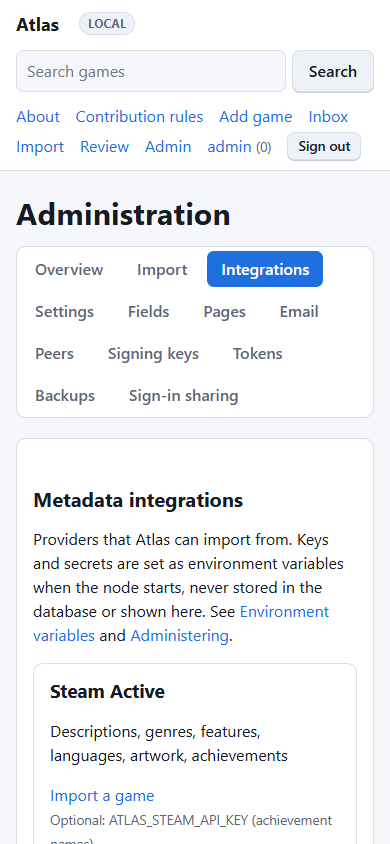
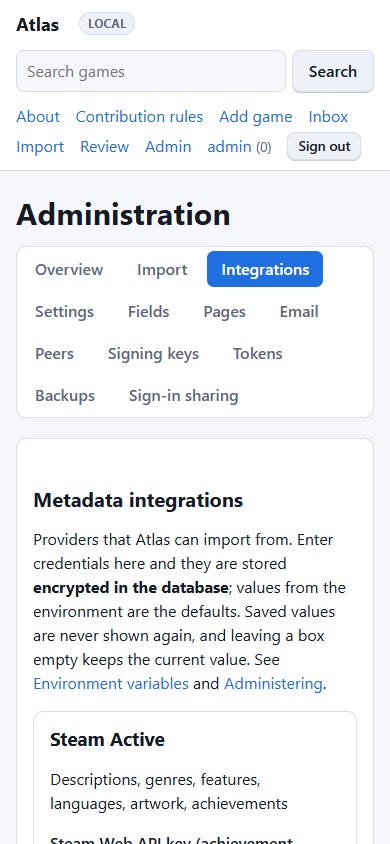
feat: edit provider credentials from Admin → Integrations; store links
Admin can store IGDB/RAWG/Steam credentials encrypted in the database (needs
ATLAS_SECRET_KEY), overriding the environment, with the providers rebuilt live and
only field names audited. Steam's public API can be toggled. Known stores (Steam, GOG,
Epic, TheGamesDB, itch, IGDB, RAWG) get store-page links on game pages and hints
in the add-game form. Reference docs updated.

Refs #32

Changed region(s): [[0.0615, 0.6161, 0.8923, 0.8318], [0.1231, 0.8626, 0.8615, 1.0]]

diff --git a/atlas/web/templates/admin_integrations.html b/atlas/web/templates/admin_integrations.html
@@ -1,16 +1,32 @@
 {% extends "base.html" %}
+{% from "macros.html" import csrf %}
 {% block title %}Integrations · {{ app_name }}{% endblock %}
 {% block content %}
 <h1>Administration</h1>
 {% include "_adminnav.html" %}
 <section class="card"><h2>Metadata integrations</h2>
-<p>Providers that Atlas can import from. Keys and secrets are set as environment variables when the node starts, never stored in the database or shown here. See <a href="{{ docs }}/reference-env.md" rel="noopener">Environment variables</a> and <a href="{{ docs }}/administering.md" rel="noopener">Administering</a>.</p>
+<p>Providers that Atlas can import from. Enter credentials here and they are stored <strong>encrypted in the database</strong>; values from the environment are the defaults. Saved values are never shown again, and leaving a box empty keeps the current value. See <a href="{{ docs }}/reference-env.md" rel="noopener">Environment variables</a> and <a href="{{ docs }}/administering.md" rel="noopener">Administering</a>.</p>
+{% if not can_store %}<p class="notice" role="note">Storing credentials here needs <code>ATLAS_SECRET_KEY</code> (generate one with <code>atlas secret-key</code>) so they can be encrypted. Until then use the environment variables shown for each provider.</p>{% endif %}
 {% for r in rows %}
 <article class="card"><h3>{{ r.label }} {% if r.active %}<span class="tag">Active</span>{% elif r.available %}<span class="tag">Not configured</span>{% else %}<span class="tag">No adapter yet</span>{% endif %}</h3>
 <p>{{ r.gives }}{% if r.failures %} <span class="muted">· {{ r.failures }} recent failure{{ '' if r.failures == 1 else 's' }}</span>{% endif %}</p>
-<p>{% if r.active %}<a href="/import?provider={{ r.name }}">Import a game</a>
-{% elif r.available %}To enable: set {% for v in r.needs %}<code>{{ v }}</code>{{ ' and ' if not loop.last }}{% endfor %} and restart Atlas.
-{% else %}Link its ids on a game page, or have a plugin submit them.{% endif %}
-{% if r.optional %}<br><span class="small muted">Optional: {{ r.optional|join(', ') }}</span>{% endif %}</p></article>{% endfor %}
-</section>
+{% if r.editable %}
+<form method="post" action="/admin/integrations/{{ r.name }}">{{ csrf(p.csrf) }}
+{% for f in r.fields %}
+<label for="{{ r.name }}-{{ f.key }}">{{ f.label }} <span class="hint">{{ f.state }}</span></label>
+<input id="{{ r.name }}-{{ f.key }}" name="{{ f.key }}" type="password" autocomplete="off" maxlength="300" placeholder="{{ 'Enter a new value to replace it' if (f.stored or f.env) else 'Not set' }}"{{ ' disabled' if not can_store }}>
+{% if f.stored %}<label><input type="checkbox" name="clear_{{ f.key }}"> Remove the stored value (falls back to the environment)</label>{% endif %}
+{% endfor %}
+{% if r.name == 'steam' %}<label><input type="checkbox" name="steam_enabled"{{ ' checked' if steam_on }}> Use Steam's public store API</label>{% endif %}
+<p><button type="submit">Save {{ r.label }}</button>{% if r.active %} <a class="btn secondary" href="/import?provider={{ r.name }}">Import a game</a>{% endif %}</p>
+<p class="small muted">Environment: {% for v in r.needs %}<code>{{ v }}</code>{{ ', ' if not loop.last }}{% endfor %}{% if r.optional %}; optional {{ r.optional|join(', ') }}{% endif %}</p>
+</form>
+{% else %}
+<p>Link its ids on a game page or have a plugin submit them.</p>
+{% endif %}
+</article>{% endfor %}</section>
+<section class="card"><h2>Linking stores</h2>
+<p>Store ids are linked to a game as <code>namespace:id</code> (for example when adding a game, or by a plugin). These namespaces get a link to the store page on the game page:</p>
+<ul>{% for ns, s in stores.items() %}<li><code>{{ ns }}</code> · {{ s[0] }}{% if not s[1] %} <span class="muted">(id only, no public link)</span>{% endif %}</li>{% endfor %}</ul>
+<p class="small muted">GOG, Epic and TheGamesDB have no import adapter yet: their ids are stored and shown, but Atlas does not fetch data from them.</p></section>
 {% endblock %}

diff --git a/atlas/web/templates/game.html b/atlas/web/templates/game.html
@@ -26,7 +26,7 @@
       {% if v.get('aliases') %}<dt>{{ lbl.aliases }}</dt><dd>{{ v.aliases|join(', ') }}</dd>{% endif %}
       {% for d in details %}<dt>{{ d.f.label }}</dt><dd>{% if d.f.kind == 'list' %}{{ chips(d.value) }}{% elif d.f.kind == 'url' %}<a href="{{ d.value }}" rel="noopener noreferrer nofollow">{{ d.value }}</a>{% elif d.f.kind == 'bool' %}{{ 'Yes' if d.value else 'No' }}{% else %}{{ d.value }}{% endif %}</dd>{% endfor %}
       {% if mtype_label and g.media_type != 'game' %}<dt>Type</dt><dd>{{ mtype_label }}</dd>{% endif %}
-      <dt>Identifiers</dt><dd><code>{{ g.id }}</code>{% for ns, ident in (v.get('provider_ids') or {}).items() %}<br>{{ ns }}: {% if ns == 'steam' and ident.isdigit() %}<a href="https://store.steampowered.com/app/{{ ident }}" rel="noopener noreferrer nofollow">{{ ident }}</a>{% else %}{{ ident }}{% endif %}{% endfor %}</dd>
+      <dt>Identifiers</dt><dd><code>{{ g.id }}</code>{% for ns, ident in (v.get('provider_ids') or {}).items() %}<br>{{ store_name(ns) }}: {% set link = store_link(ns, ident) %}{% if link %}<a href="{{ link }}" rel="noopener noreferrer nofollow">{{ ident }}</a>{% else %}{{ ident }}{% endif %}{% endfor %}</dd>
     </dl>
     {% if v.get('description') %}<p>{{ v.description }}</p>{% endif %}
     <div class="actions-bar">

diff --git a/atlas/web/templates/edit.html b/atlas/web/templates/edit.html
@@ -9,7 +9,7 @@
   {{ csrf(p.csrf) }}{% if new %}<input type="hidden" name="media_type" value="{{ mtype }}">{% endif %}
   {% include "_fields.html" %}
   {% if new %}
-  <label for="provider_ids">Known store IDs <span class="hint">one per line, e.g. <code>steam:620</code></span></label>
+  <label for="provider_ids">Known store IDs <span class="hint">one per line, e.g. <code>steam:620</code>, <code>gog:the_witcher_3</code>, <code>epic:slug</code>, <code>tgdb:1234</code></span></label>
   <textarea id="provider_ids" name="provider_ids">{{ ids_text|default('') }}</textarea>
   {% endif %}
   <label for="note">Source / note for reviewers <span class="hint">link to the store page or announcement</span></label>

diff --git a/atlas/web/admin.py b/atlas/web/admin.py
@@ -9,7 +9,7 @@ from fastapi import APIRouter, Depends, File, Form, HTTPException, Request, Resp
 from fastapi.responses import HTMLResponse
 from sqlalchemy import select
 
-from .. import media, pages, runtime
+from .. import integrations, media, pages, runtime, secrets_box
 from ..models import AuditEntry, Page, Setting
 from .deps import Page as Ctx
 from .deps import admin_form, admin_page, go, page
@@ -197,10 +197,68 @@ CATALOGUE = (
 )
 
 
+def _field_state(p: Ctx, field: str) -> dict[str, Any]:
+    stored = p.session.get(Setting, integrations.PREFIX + field) is not None
+    in_env = bool(getattr(p.st.base, field, None))
+    return {"stored": stored, "env": in_env,
+            "state": "Stored in the database" if stored else ("Set in the environment" if in_env else "Not set")}
+
+
 @router.get("/admin/integrations", response_class=HTMLResponse)
-def integrations(p: Annotated[Ctx, Depends(admin_page)]):
+def integrations_page(p: Annotated[Ctx, Depends(admin_page)]):
     active = p.st.providers.providers
     failures = p.st.providers.failure_counts()
-    rows = [{**item, "active": item["name"] in active, "available": bool(item["needs"]),
-             "failures": failures.get(item["name"], 0)} for item in CATALOGUE]
-    return render(p, "admin_integrations.html", rows=rows, docs=DOCS)
+    rows = []
+    for item in CATALOGUE:
+        spec = integrations.PROVIDERS.get(item["name"])
+        fields = [{"key": f, "label": label, **_field_state(p, f)} for f, label in (spec[1] if spec else ())]
+        rows.append({**item, "active": item["name"] in active, "available": bool(item["needs"]), "fields": fields,
+                     "failures": failures.get(item["name"], 0), "editable": spec is not None})
+    return render(p, "admin_integrations.html", rows=rows, docs=DOCS, can_store=secrets_box.available(p.st.base),
+                  stores=integrations.STORES,
+                  steam_on=p.st.ctx.settings.steam_enabled)
+
+
+@router.post("/admin/integrations/{name}")
+async def integrations_save(name: str, request: Request, p: Annotated[Ctx, Depends(admin_form)]):
+    spec = integrations.PROVIDERS.get(name)
+    if spec is None:
+        raise HTTPException(404, "Unknown provider.")
+    form = await request.form()
+    changed: list[str] = []
+    for field, _label in spec[1]:
+        key = integrations.PREFIX + field
+        value = str(form.get(field, "")).strip()
+        row = p.session.get(Setting, key)
+        if form.get("clear_" + field) == "on":
+            if row is not None:
+                p.session.delete(row)
+                changed.append(field)
+            continue
+        if not value:
+            continue
+        if len(value) > 300 or any(ord(c) < 32 for c in value):
+            raise HTTPException(400, "Credentials are at most 300 characters, on one line.")
+        if not secrets_box.available(p.st.base):
+            raise HTTPException(400, "Set ATLAS_SECRET_KEY (see `atlas secret-key`) before storing credentials here.")
+        token = secrets_box.encrypt(p.st.base, value)
+        if row is None:
+            p.session.add(Setting(key=key, value=token, updated_by=p.me.id))
+        else:
+            row.value, row.updated_by = token, p.me.id
+        changed.append(field)
+    if name == "steam":
+        key = integrations.PREFIX + "steam_enabled"
+        wanted = form.get("steam_enabled") == "on"
+        row = p.session.get(Setting, key)
+        if (row.value if row is not None else p.st.base.steam_enabled) != wanted:
+            if row is None:
+                p.session.add(Setting(key=key, value=wanted, updated_by=p.me.id))
+            else:
+                row.value, row.updated_by = wanted, p.me.id
+            changed.append("steam_enabled")
+    if changed:  # field names only, never values
+        p.session.add(AuditEntry(actor_id=p.me.id, action="integration", target=name, detail={"fields": changed}))
+    p.session.flush()
+    p.st.refresh(p.session, force=True)
+    return go("/admin/integrations", "saved" if changed else "nochange")

diff --git a/tests/test_web.py b/tests/test_web.py
@@ -398,6 +398,54 @@ def test_admin_integrations_page_shows_provider_status_without_secrets(site):
     page = site.get("/admin/integrations")
     assert page.status_code == 200
     assert "Steam" in page.text and "Active" in page.text and "Not configured" in page.text
-    assert "ATLAS_IGDB_CLIENT_ID" in page.text and "Not configured" in page.text
-    assert "ATLAS_RAWG_API_KEY" in page.text and "GOG" in page.text
+    assert "ATLAS_IGDB_CLIENT_ID" in page.text and "ATLAS_RAWG_API_KEY" in page.text and "GOG" in page.text
     assert 'href="/admin/integrations"' in page.text
+    assert "ATLAS_SECRET_KEY" in page.text  # no key configured: the page says why it cannot store credentials
+
+
+def test_admin_can_store_provider_credentials_encrypted_and_providers_reload(site):
+    from sqlalchemy import select
+
+    from atlas import integrations, secrets_box
+    from atlas.models import AuditEntry, Setting
+
+    base = site.st.base.model_copy(update={"secret_key": "k" * 40})
+    site.st.base = base
+    signup(site, "alice")
+    assert "igdb" not in site.st.providers.providers
+    t = token(site, "/admin/integrations")
+    r = site.post("/admin/integrations/igdb", data={"csrf": t, "igdb_client_id": "client-123",
+                                                    "igdb_client_secret": "super-secret-value"})
+    assert r.status_code == 303, r.text
+    with site.st.maker() as s:
+        raw = s.get(Setting, integrations.PREFIX + "igdb_client_secret").value
+        assert "super-secret-value" not in raw and secrets_box.decrypt(base, raw) == "super-secret-value"
+        audit = s.scalars(select(AuditEntry).where(AuditEntry.action == "integration")).one()
+        assert audit.detail == {"fields": ["igdb_client_id", "igdb_client_secret"]}
+    page = site.get("/admin/integrations")  # refresh picks up the change and rebuilds the providers
+    assert "super-secret-value" not in page.text and "client-123" not in page.text
+    assert "Stored in the database" in page.text and "igdb" in site.st.providers.providers
+    # an empty box keeps the value; the checkbox removes it and the provider goes away
+    site.post("/admin/integrations/igdb", data={"csrf": t, "igdb_client_id": "", "igdb_client_secret": ""})
+    assert "igdb" in site.st.providers.providers
+    site.post("/admin/integrations/igdb", data={"csrf": t, "clear_igdb_client_id": "on", "clear_igdb_client_secret": "on"})
+    site.get("/admin/integrations")
+    assert "igdb" not in site.st.providers.providers
+
+
+def test_credentials_cannot_be_stored_without_a_secret_key_or_by_non_admins(site):
+    signup(site, "alice")
+    t = token(site, "/admin/integrations")
+    assert site.post("/admin/integrations/rawg", data={"csrf": t, "rawg_api_key": "abc"}).status_code == 400
+    assert site.post("/admin/integrations/nope", data={"csrf": t}).status_code == 404
+    plain = fresh(site)
+    assert plain.post("/admin/integrations/rawg", data={"csrf": "x", "rawg_api_key": "abc"}).status_code in (303, 401, 403)
+
+
+def test_known_stores_link_only_safe_ids():
+    from atlas import integrations
+
+    assert integrations.store_link("gog", "the_witcher_3") == "https://www.gog.com/game/the_witcher_3"
+    assert integrations.store_link("tgdb", "1234") == "https://thegamesdb.net/game.php?id=1234"
+    assert integrations.store_link("steam", "../evil") is None and integrations.store_link("itch", "x") is None
+    assert integrations.store_link("unknown", "1") is None and integrations.store_name("unknown") == "unknown"

diff --git a/tools/gen_docs.py b/tools/gen_docs.py
@@ -30,7 +30,7 @@ ENV_HELP: dict[str, tuple[str, str]] = {
                     "PostgreSQL for authorities and an explicit initial administrator."),
     "auto_migrate": ("Node", "Run database migrations on start. Default: on for SQLite, off otherwise. With several replicas "
                      "set `false` and run `atlas migrate` as a job."),
-    "secret_key": ("Node", "Encrypts secrets stored in the database (peer tokens, OIDC client secrets). Generate one with "
+    "secret_key": ("Node", "Encrypts secrets stored in the database (peer tokens, OIDC client secrets, provider credentials entered in Admin → Integrations). Generate one with "
                    "`atlas secret-key`. Losing it makes those secrets unreadable."),
     "bootstrap_admin_token": ("Node", "32+ random characters. Becomes an admin API token while set; removing it revokes it. "
                               "Use it to create the first real tokens."),
@@ -59,11 +59,11 @@ ENV_HELP: dict[str, tuple[str, str]] = {
     "max_resolve": ("Limits", "Largest `/resolve` batch."),
     "rate_limit_per_minute": ("Limits", "API requests per token per minute (unauthenticated callers get 60 per address)."),
     "max_body_bytes": ("Limits", "Largest request body accepted."),
-    "steam_enabled": ("Providers", "Use Steam's public store API."),
-    "rawg_api_key": ("Providers", "Enables the RAWG provider."),
-    "igdb_client_id": ("Providers", "Twitch client id; with the secret enables the IGDB provider."),
-    "igdb_client_secret": ("Providers", "Twitch client secret for IGDB."),
-    "steam_api_key": ("Providers", "Steam Web API key. Without it achievements have global percentages only (no names)."),
+    "steam_enabled": ("Providers", "Use Steam's public store API. Can also be switched in [Admin → Integrations](administering.md#integrations)."),
+    "rawg_api_key": ("Providers", "Enables the RAWG provider. Can also be set in [Admin → Integrations](administering.md#integrations) (stored encrypted; needs `ATLAS_SECRET_KEY`), which overrides this value."),
+    "igdb_client_id": ("Providers", "Twitch client id; with the secret enables the IGDB provider. Can also be set in [Admin → Integrations](administering.md#integrations) (stored encrypted; needs `ATLAS_SECRET_KEY`), which overrides this value."),
+    "igdb_client_secret": ("Providers", "Twitch client secret for IGDB. Can also be set in [Admin → Integrations](administering.md#integrations) (stored encrypted; needs `ATLAS_SECRET_KEY`), which overrides this value."),
+    "steam_api_key": ("Providers", "Steam Web API key. Without it achievements have global percentages only (no names). Can also be set in [Admin → Integrations](administering.md#integrations) (stored encrypted; needs `ATLAS_SECRET_KEY`), which overrides this value."),
     "provider_ttl_seconds": ("Providers", "How long a provider answer is cached."),
     "provider_negative_ttl_seconds": ("Providers", "How long “not found” is cached."),
     "media_dir": ("Artwork", "Directory for cached images (content-addressed). Mount a volume here."),

diff --git a/atlas/integrations.py b/atlas/integrations.py
@@ -1,0 +1,65 @@
+"""Provider credentials and store links.
+
+Credentials come from the environment, and an administrator can override them in Admin -> Integrations. Overrides
+are encrypted with ATLAS_SECRET_KEY in the `setting` table (keys `integration.<field>`); the key itself is never
+stored in the database.
+"""
+
+from __future__ import annotations
+
+import re
+from typing import Any
+
+from . import secrets_box
+from .settings import Settings
+
+PREFIX = "integration."
+
+# provider -> (label, secret fields as (setting field, label))
+PROVIDERS: dict[str, tuple[str, tuple[tuple[str, str], ...]]] = {
+    "steam": ("Steam", (("steam_api_key", "Steam Web API key (achievement names)"),)),
+    "igdb": ("IGDB", (("igdb_client_id", "Twitch client ID"), ("igdb_client_secret", "Twitch client secret"))),
+    "rawg": ("RAWG", (("rawg_api_key", "RAWG API key"),)),
+}
+SECRET_FIELDS = tuple(field for _label, fields in PROVIDERS.values() for field, _ in fields)
+TOGGLES = ("steam_enabled",)
+
+# Known stores for linking ids: namespace -> (name, url template or None)
+STORES: dict[str, tuple[str, str | None]] = {
+    "steam": ("Steam", "https://store.steampowered.com/app/{id}"),
+    "gog": ("GOG", "https://www.gog.com/game/{id}"),
+    "epic": ("Epic Games Store", "https://store.epicgames.com/p/{id}"),
+    "tgdb": ("TheGamesDB", "https://thegamesdb.net/game.php?id={id}"),
+    "itch": ("itch.io", None),
+    "igdb": ("IGDB", None),
+    "rawg": ("RAWG", "https://rawg.io/games/{id}"),
+}
+_SAFE_ID = re.compile(r"^[A-Za-z0-9._-]{1,100}$")
+
+
+def store_link(namespace: str, ident: str) -> str | None:
+    """A public store page for a linked id, only for known stores and plainly safe ids."""
+    store = STORES.get(namespace)
+    if store is None or store[1] is None or not _SAFE_ID.match(str(ident)):
+        return None
+    return store[1].format(id=ident)
+
+
+def store_name(namespace: str) -> str:
+    return STORES[namespace][0] if namespace in STORES else namespace
+
+
+def apply(settings: Settings, overrides: dict[str, Any]) -> Settings:
+    """Settings with database credential overrides applied; anything undecryptable is ignored."""
+    update: dict[str, Any] = {}
+    for field in SECRET_FIELDS:
+        raw = overrides.get(PREFIX + field)
+        if isinstance(raw, str) and raw and secrets_box.available(settings):
+            try:
+                update[field] = secrets_box.decrypt(settings, raw)
+            except secrets_box.SecretsError:
+                continue
+    for field in TOGGLES:
+        if isinstance(overrides.get(PREFIX + field), bool):
+            update[field] = overrides[PREFIX + field]
+    return settings.model_copy(update=update) if update else settings

diff --git a/atlas/runtime.py b/atlas/runtime.py
@@ -13,6 +13,7 @@ from typing import Any
 from sqlalchemy import select
 from sqlalchemy.orm import Session
 
+from . import integrations
 from .models import AuditEntry, Setting, now
 from .settings import Settings
 
@@ -191,9 +192,9 @@ def effective(base: Settings, overrides: dict[str, Any]) -> Settings:
     """The environment settings with the admin's overrides applied (invalid leftovers are ignored)."""
     update = {k: to_attr(BY_KEY[k], v) if k in BY_KEY else v for k, v in overrides.items()
               if k in BY_KEY or k in EXTRA}
-    if not update:
+    merged = integrations.apply(base.model_copy(update=update) if update else base, overrides)
+    if merged is base:
         return base
-    merged = base.model_copy(update=update)
     try:
         return _check(merged)
     except ValueError:

diff --git a/atlas/providers/registry.py b/atlas/providers/registry.py
@@ -64,6 +64,12 @@ class Fetcher:
         self._clock = clock
         self._failure_counts: dict[str, int] = {}
 
+    def rebuild(self, settings: Settings) -> None:
+        """Re-create the built-in providers from changed credentials; custom or replaced providers are kept."""
+        built_in = (Steam, Rawg, Igdb)
+        kept = {name: p for name, p in self.providers.items() if not isinstance(p, built_in)}
+        self.providers = {**build_registry(settings), **kept}
+
     def failure_counts(self) -> dict[str, int]:
         with self._lock:
             return dict(self._failure_counts)

diff --git a/atlas/web/__init__.py b/atlas/web/__init__.py
@@ -6,8 +6,11 @@ from pathlib import Path
 
 from fastapi.templating import Jinja2Templates
 
+from .. import integrations
+
 HERE = Path(__file__).parent
 templates = Jinja2Templates(directory=str(HERE / "templates"))
+templates.env.globals.update(store_link=integrations.store_link, store_name=integrations.store_name)
 STATIC_DIR = HERE / "static"
 
 CSP = ("default-src 'none'; img-src 'self'; style-src 'self'; script-src 'self'; form-action 'self'; "

diff --git a/atlas/api/deps.py b/atlas/api/deps.py
@@ -35,6 +35,7 @@ class AppState:
             fresh = runtime.effective(self.base, runtime.load(session))
             self.ctx.settings = fresh
             self.providers.settings = fresh
+            self.providers.rebuild(fresh)
 
 
 def state(request: Request) -> AppState:

diff --git a/docs/guide/reference-env.md b/docs/guide/reference-env.md
@@ -16,7 +16,7 @@ Every setting is read from an environment variable named `ATLAS_<NAME>` (or from
 | `ATLAS_NODE_OPERATOR` | — | Who runs this node. Editable in Admin → Settings. **live** |
 | `ATLAS_INITIAL_ADMIN` | — | Username that becomes the website administrator when it registers. If unset, the first account to register is the administrator (production with open registration refuses to start without it). |
 | `ATLAS_BOOTSTRAP_ADMIN_TOKEN` | — | 32+ random characters. Becomes an admin API token while set; removing it revokes it. Use it to create the first real tokens. |
-| `ATLAS_SECRET_KEY` | — | Encrypts secrets stored in the database (peer tokens, OIDC client secrets). Generate one with `atlas secret-key`. Losing it makes those secrets unreadable. |
+| `ATLAS_SECRET_KEY` | — | Encrypts secrets stored in the database (peer tokens, OIDC client secrets, provider credentials entered in Admin → Integrations). Generate one with `atlas secret-key`. Losing it makes those secrets unreadable. |
 | `ATLAS_AUTO_MIGRATE` | — | Run database migrations on start. Default: on for SQLite, off otherwise. With several replicas set `false` and run `atlas migrate` as a job. |
 
 ## Backups
@@ -64,13 +64,13 @@ Every setting is read from an environment variable named `ATLAS_<NAME>` (or from
 
 | Variable | Default | Meaning |
 | --- | --- | --- |
-| `ATLAS_STEAM_ENABLED` | `true` | Use Steam's public store API. |
-| `ATLAS_RAWG_API_KEY` | — | Enables the RAWG provider. |
-| `ATLAS_IGDB_CLIENT_ID` | — | Twitch client id; with the secret enables the IGDB provider. |
-| `ATLAS_IGDB_CLIENT_SECRET` | — | Twitch client secret for IGDB. |
+| `ATLAS_STEAM_ENABLED` | `true` | Use Steam's public store API. Can also be switched in [Admin → Integrations](administering.md#integrations). |
+| `ATLAS_RAWG_API_KEY` | — | Enables the RAWG provider. Can also be set in [Admin → Integrations](administering.md#integrations) (stored encrypted; needs `ATLAS_SECRET_KEY`), which overrides this value. |
+| `ATLAS_IGDB_CLIENT_ID` | — | Twitch client id; with the secret enables the IGDB provider. Can also be set in [Admin → Integrations](administering.md#integrations) (stored encrypted; needs `ATLAS_SECRET_KEY`), which overrides this value. |
+| `ATLAS_IGDB_CLIENT_SECRET` | — | Twitch client secret for IGDB. Can also be set in [Admin → Integrations](administering.md#integrations) (stored encrypted; needs `ATLAS_SECRET_KEY`), which overrides this value. |
 | `ATLAS_PROVIDER_TTL_SECONDS` | `604800` | How long a provider answer is cached. |
 | `ATLAS_PROVIDER_NEGATIVE_TTL_SECONDS` | `86400` | How long “not found” is cached. |
-| `ATLAS_STEAM_API_KEY` | — | Steam Web API key. Without it achievements have global percentages only (no names). |
+| `ATLAS_STEAM_API_KEY` | — | Steam Web API key. Without it achievements have global percentages only (no names). Can also be set in [Admin → Integrations](administering.md#integrations) (stored encrypted; needs `ATLAS_SECRET_KEY`), which overrides this value. |
 
 ## Artwork
 
